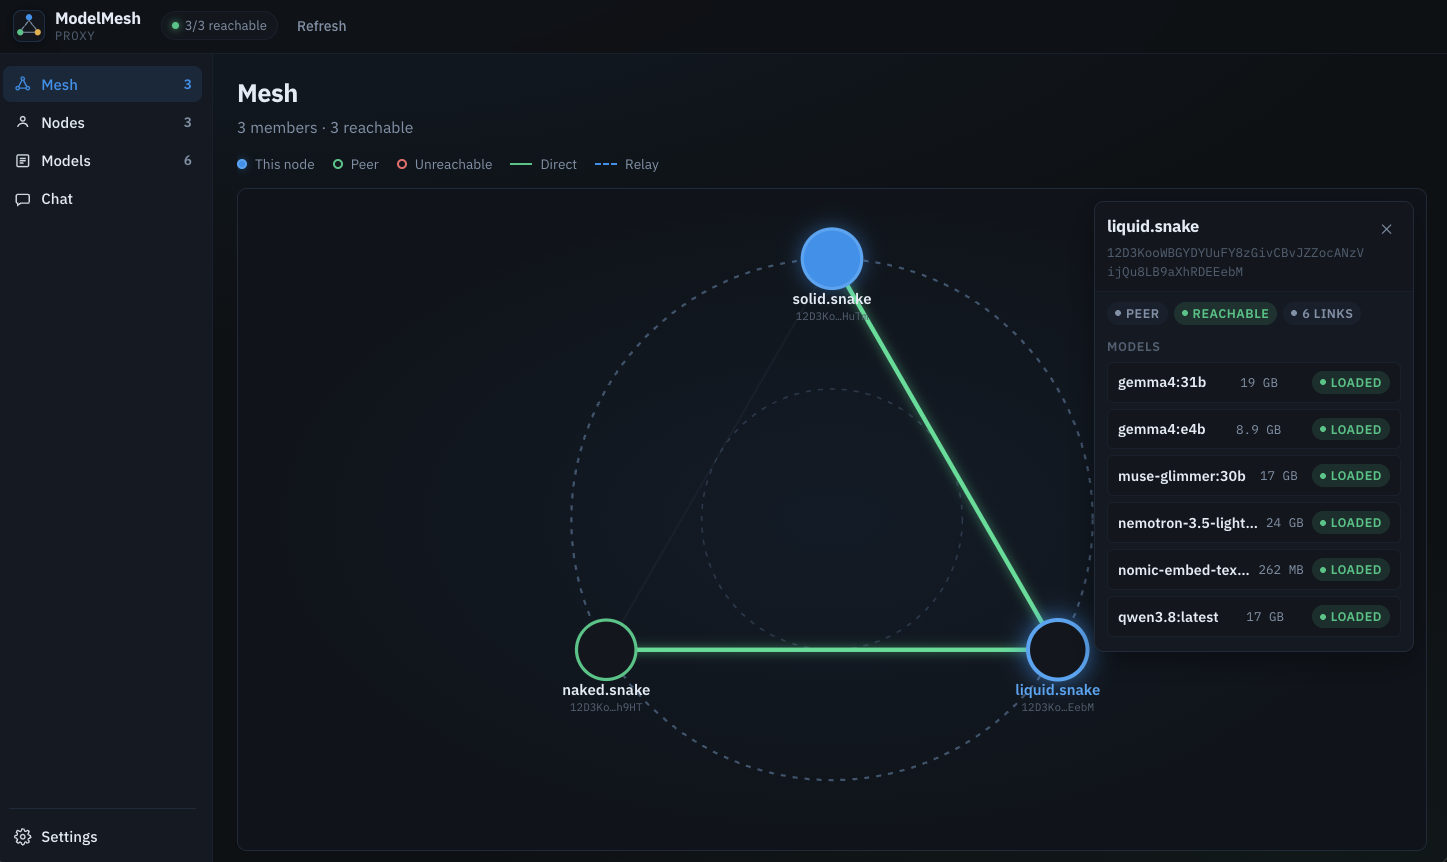
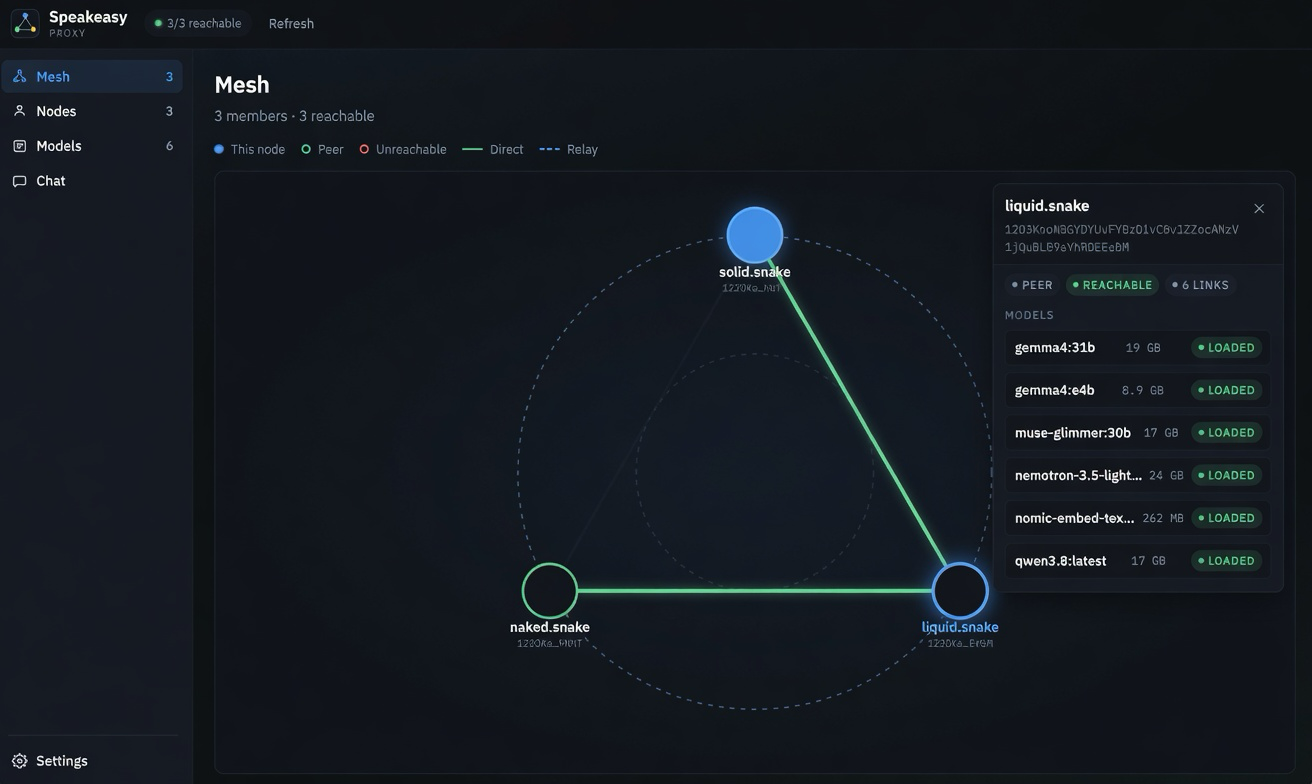
Feat: rename to speakeasy and fix branding (#4)

diff --git a/web/index.html b/web/index.html
@@ -3,7 +3,7 @@
 <head>
   <meta charset="utf-8">
   <meta name="viewport" content="width=device-width, initial-scale=1">
-  <title>ModelMesh</title>
+  <title>Speakeasy</title>
   <link rel="preconnect" href="https://fonts.googleapis.com">
   <link rel="preconnect" href="https://fonts.gstatic.com" crossorigin>
   <link href="https://fonts.googleapis.com/css2?family=IBM+Plex+Mono:wght@400;500;600&family=IBM+Plex+Sans:wght@400;500;600;700&display=swap" rel="stylesheet">
@@ -20,7 +20,7 @@
           <path d="M24 15 L12 30 M24 15 L36 30 M14 34 H34" fill="none" stroke="#8b9bb0" stroke-width="1.6"/>
         </svg>
         <div class="brand">
-          <span class="brand-name">ModelMesh</span>
+          <span class="brand-name">Speakeasy</span>
           <span class="brand-sub">proxy</span>
         </div>
       </div>
@@ -109,7 +109,7 @@
                 <code id="welcome-openai-url"></code>
                 <button type="button" class="btn btn-outline btn-sm welcome-copy" data-copy-target="welcome-openai-url">Copy</button>
               </div>
-              <p class="welcome-hint">No API key is required. If a client refuses an empty key, use any placeholder such as <code>sk-modelmesh</code>.</p>
+              <p class="welcome-hint">No API key is required. If a client refuses an empty key, use any placeholder such as <code>sk-speakeasy</code>.</p>
               <p id="welcome-local-note" class="welcome-hint welcome-local-note hidden" hidden>
                 You are viewing this dashboard on localhost. Apps on other machines — or Open WebUI in Docker — cannot reach <code>127.0.0.1</code>. Use this computer’s LAN address, or <code>host.docker.internal</code> from Docker Desktop.
               </p>

diff --git a/web/css/styles.css b/web/css/styles.css
@@ -5375,7 +5375,7 @@ input[type="date"]:focus {
   }
 }
 
-/* ── ModelMesh proxy UI ──────────────────────────────────────────────────── */
+/* ── Speakeasy proxy UI ──────────────────────────────────────────────────── */
 
 .app-body {
   flex: 1;

diff --git a/cmd/admincli/main.go b/cmd/admincli/main.go
@@ -8,7 +8,7 @@ import (
 
 	"github.com/urfave/cli/v3"
 
-	"modelmesh/api"
+	"github.com/asynchronomatic/speakeasy/api"
 )
 
 func out() *os.File {
@@ -25,7 +25,7 @@ func main() {
 func newCommand() *cli.Command {
 	return &cli.Command{
 		Name:                  "admincli",
-		Usage:                 "ModelMesh admin and node CLI",
+		Usage:                 "Speakeasy admin and node CLI",
 		EnableShellCompletion: true,
 		Flags: []cli.Flag{
 			&cli.StringFlag{
@@ -33,13 +33,13 @@ func newCommand() *cli.Command {
 				Aliases: []string{"a"},
 				Usage:   "admin HTTP address",
 				Value:   "http://127.0.0.1:4002",
-				Sources: cli.EnvVars("MODELMESH_ADMIN_ADDR"),
+				Sources: cli.EnvVars("SPEAKEASY_ADMIN_ADDR"),
 			},
 			&cli.StringFlag{
 				Name:    "token",
 				Aliases: []string{"t"},
 				Usage:   "admin bearer token",
-				Sources: cli.EnvVars("MODELMESH_ADMIN_TOKEN"),
+				Sources: cli.EnvVars("SPEAKEASY_ADMIN_TOKEN"),
 			},
 			&cli.StringFlag{
 				Name:    "mesh",
@@ -73,7 +73,7 @@ func newCommand() *cli.Command {
 
 func requireToken(ctx context.Context, cmd *cli.Command) (context.Context, error) {
 	if strings.TrimSpace(cmd.String("token")) == "" {
-		return ctx, fmt.Errorf("--token is required (or set MODELMESH_ADMIN_TOKEN)")
+		return ctx, fmt.Errorf("--token is required (or set SPEAKEASY_ADMIN_TOKEN)")
 	}
 	return ctx, nil
 }

diff --git a/pkg/proxy/handlers_ui_test.go b/pkg/proxy/handlers_ui_test.go
@@ -12,7 +12,7 @@ import (
 
 	"github.com/ollama/ollama/types/model"
 
-	"modelmesh/web"
+	"github.com/asynchronomatic/speakeasy/web"
 )
 
 func TestWebDirHasIndex(t *testing.T) {
@@ -59,9 +59,14 @@ func TestUIStaticAssets(t *testing.T) {
 		t.Fatal(err)
 	}
 	body := string(bodyBytes)
-	for _, needle := range []string{"Welcome", "OpenAI endpoint", "/v1", "Open WebUI", "Mesh", "Models", "<th>Owner</th>", "<th>Context</th>", "<th>Visibility</th>", "<th>Capabilities</th>"} {
+	for _, needle := range []string{"Speakeasy", "Welcome", "OpenAI endpoint", "/v1", "Open WebUI", "Mesh", "Models", "<th>Owner</th>", "<th>Context</th>", "<th>Visibility</th>", "<th>Capabilities</th>", "sk-speakeasy"} {
 		if !strings.Contains(body, needle) {
 			t.Fatalf("index missing %s", needle)
+		}
+	}
+	for _, old := range []string{"ModelMesh", "sk-modelmesh"} {
+		if strings.Contains(body, old) {
+			t.Fatalf("index still has old branding %s", old)
 		}
 	}
 	for _, old := range []string{"<th>Size</th>", "<th>Family</th>", "<th>Parameters</th>"} {

diff --git a/cmd/mesh/app_init.go b/cmd/mesh/app_init.go
@@ -11,9 +11,9 @@ import (
 
 	"charm.land/huh/v2"
 
-	"modelmesh/pkg/core"
-	"modelmesh/pkg/log"
-	"modelmesh/pkg/mesh"
+	"github.com/asynchronomatic/speakeasy/pkg/core"
+	"github.com/asynchronomatic/speakeasy/pkg/log"
+	"github.com/asynchronomatic/speakeasy/pkg/mesh"
 )
 
 // Install defaults. Change these to adjust what `mesh init` offers (and writes
@@ -182,7 +182,7 @@ func collectInstallSettings() (installSettings, error) {
 				Value(&s.ForcePrivate),
 			huh.NewConfirm().
 				Title("Enable mDNS?").
-				Description("Discover other ModelMesh proxies on the local LAN, in addition to the admin membership list.").
+				Description("Discover other Speakeasy proxies on the local LAN, in addition to the admin membership list.").
 				Affirmative("Yes").
 				Negative("No").
 				Value(&s.MDNSEnabled),

diff --git a/pkg/mesh/service.go b/pkg/mesh/service.go
@@ -23,12 +23,12 @@ import (
 	"github.com/libp2p/go-libp2p/p2p/protocol/circuitv2/client"
 	ma "github.com/multiformats/go-multiaddr"
 
-	"modelmesh/pkg/jsonclient"
-	"modelmesh/pkg/log"
+	"github.com/asynchronomatic/speakeasy/pkg/jsonclient"
+	"github.com/asynchronomatic/speakeasy/pkg/log"
 
-	"modelmesh/api"
-	"modelmesh/pkg/autoip"
-	"modelmesh/pkg/core"
+	"github.com/asynchronomatic/speakeasy/api"
+	"github.com/asynchronomatic/speakeasy/pkg/autoip"
+	"github.com/asynchronomatic/speakeasy/pkg/core"
 )
 
 func init() {

diff --git a/cmd/admincli/main_test.go b/cmd/admincli/main_test.go
@@ -17,10 +17,13 @@ func TestHelp(t *testing.T) {
 		t.Fatal(err)
 	}
 	out := buf.String()
-	for _, needle := range []string{"node", "admin", "redeem", "meshes"} {
+	for _, needle := range []string{"Speakeasy", "node", "admin", "redeem", "meshes", "SPEAKEASY_ADMIN_TOKEN"} {
 		if !strings.Contains(out, needle) {
 			t.Fatalf("help missing %q:\n%s", needle, out)
 		}
+	}
+	if strings.Contains(out, "ModelMesh") || strings.Contains(out, "MODELMESH_") {
+		t.Fatalf("help still has old branding:\n%s", out)
 	}
 }
 

diff --git a/pkg/admin/api_node.go b/pkg/admin/api_node.go
@@ -10,11 +10,11 @@ import (
 
 	"golang.org/x/crypto/bcrypt"
 
-	"modelmesh/api"
-	"modelmesh/pkg/admin/auth"
-	"modelmesh/pkg/admin/magiclink"
-	"modelmesh/pkg/jsonkv"
-	"modelmesh/pkg/log"
+	"github.com/asynchronomatic/speakeasy/api"
+	"github.com/asynchronomatic/speakeasy/pkg/admin/auth"
+	"github.com/asynchronomatic/speakeasy/pkg/admin/magiclink"
+	"github.com/asynchronomatic/speakeasy/pkg/jsonkv"
+	"github.com/asynchronomatic/speakeasy/pkg/log"
 )
 
 func newNodeToken() string {

diff --git a/pkg/admin/server.go b/pkg/admin/server.go
@@ -11,12 +11,12 @@ import (
 	"sync"
 	"time"
 
-	"modelmesh/pkg/admin/auth"
-	"modelmesh/pkg/admin/magiclink"
-	"modelmesh/pkg/jsonkv"
-	"modelmesh/pkg/log"
+	"github.com/asynchronomatic/speakeasy/pkg/admin/auth"
+	"github.com/asynchronomatic/speakeasy/pkg/admin/magiclink"
+	"github.com/asynchronomatic/speakeasy/pkg/jsonkv"
+	"github.com/asynchronomatic/speakeasy/pkg/log"
 
-	"modelmesh/api"
+	"github.com/asynchronomatic/speakeasy/api"
 )
 
 var BuildVersion string

diff --git a/pkg/proxy/proxy.go b/pkg/proxy/proxy.go
@@ -19,11 +19,11 @@ import (
 
 	"github.com/sethvargo/go-retry"
 
-	"modelmesh/pkg/log"
-	"modelmesh/pkg/proxy/modeldex"
-	"modelmesh/pkg/proxy/socket"
+	"github.com/asynchronomatic/speakeasy/pkg/log"
+	"github.com/asynchronomatic/speakeasy/pkg/proxy/modeldex"
+	"github.com/asynchronomatic/speakeasy/pkg/proxy/socket"
 
-	"modelmesh/pkg/core"
+	"github.com/asynchronomatic/speakeasy/pkg/core"
 )
 
 const maxBody = 8 << 20 // 1 MiB

diff --git a/cmd/mesh/app_join.go b/cmd/mesh/app_join.go
@@ -10,10 +10,10 @@ import (
 	"github.com/goccy/go-yaml"
 	"github.com/libp2p/go-libp2p/core/peer"
 
-	"modelmesh/api"
-	"modelmesh/pkg/core"
-	"modelmesh/pkg/log"
-	"modelmesh/pkg/mesh"
+	"github.com/asynchronomatic/speakeasy/api"
+	"github.com/asynchronomatic/speakeasy/pkg/core"
+	"github.com/asynchronomatic/speakeasy/pkg/log"
+	"github.com/asynchronomatic/speakeasy/pkg/mesh"
 )
 
 func runJoin(args []string) error {

diff --git a/testable/orchestrator.go b/testable/orchestrator.go
@@ -5,9 +5,9 @@ import (
 	"net/http"
 	"sync"
 
-	"modelmesh/pkg/core"
-	"modelmesh/pkg/jsonclient"
-	"modelmesh/pkg/log"
+	"github.com/asynchronomatic/speakeasy/pkg/core"
+	"github.com/asynchronomatic/speakeasy/pkg/jsonclient"
+	"github.com/asynchronomatic/speakeasy/pkg/log"
 )
 
 // MeshOrchestrator implements the "notion of the p2p network"  it creates a fake P2P network that satisfies the interfaces
